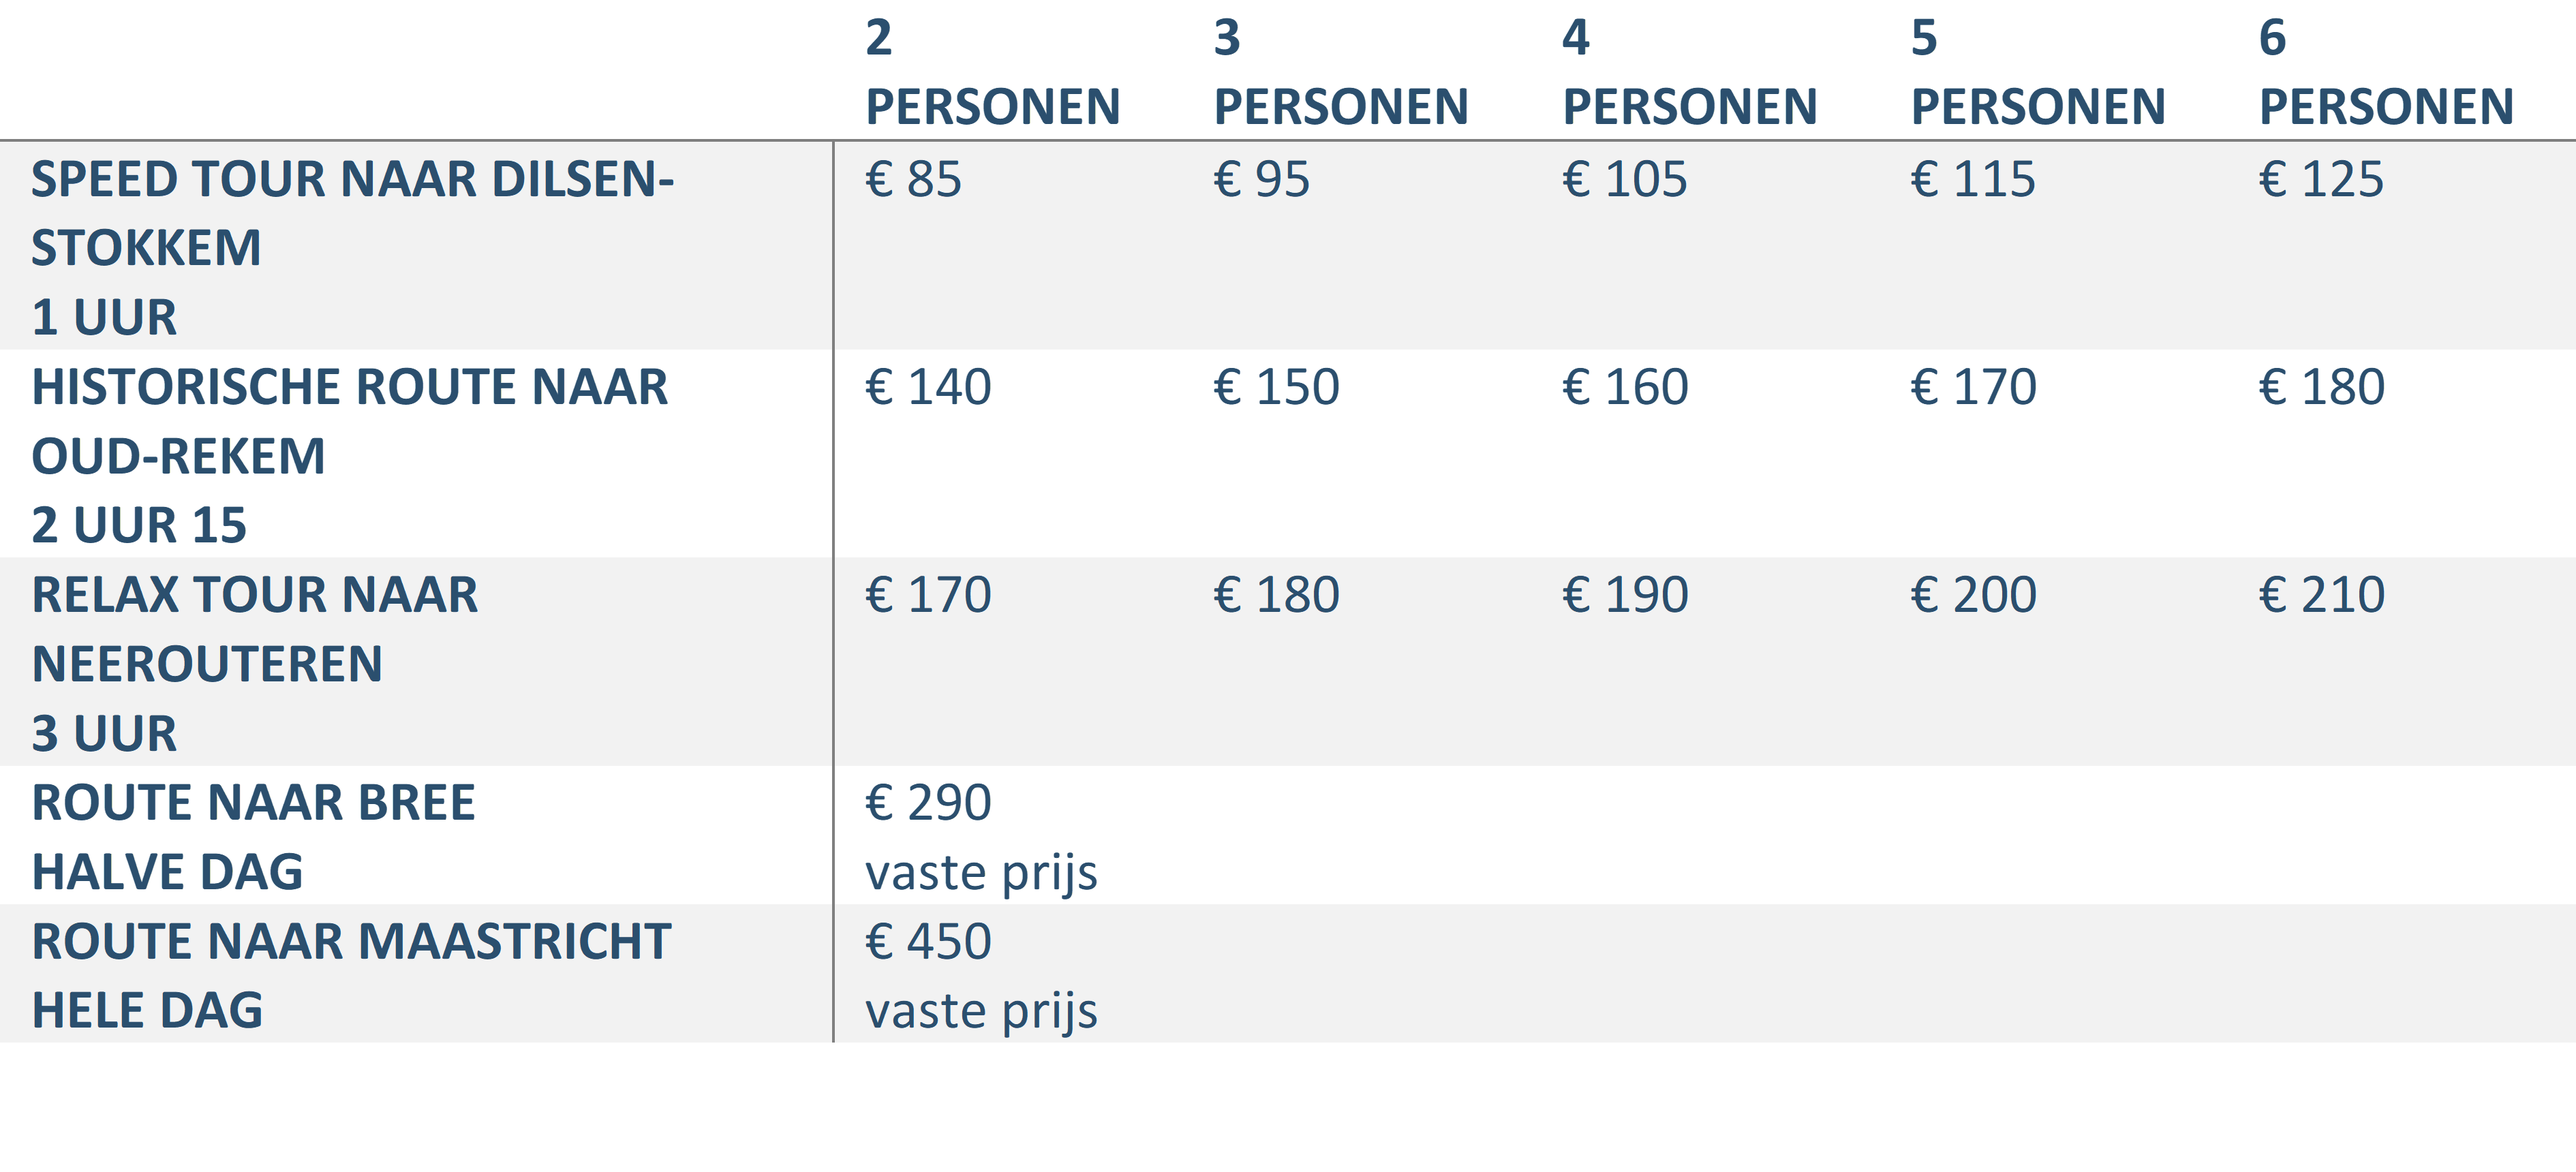
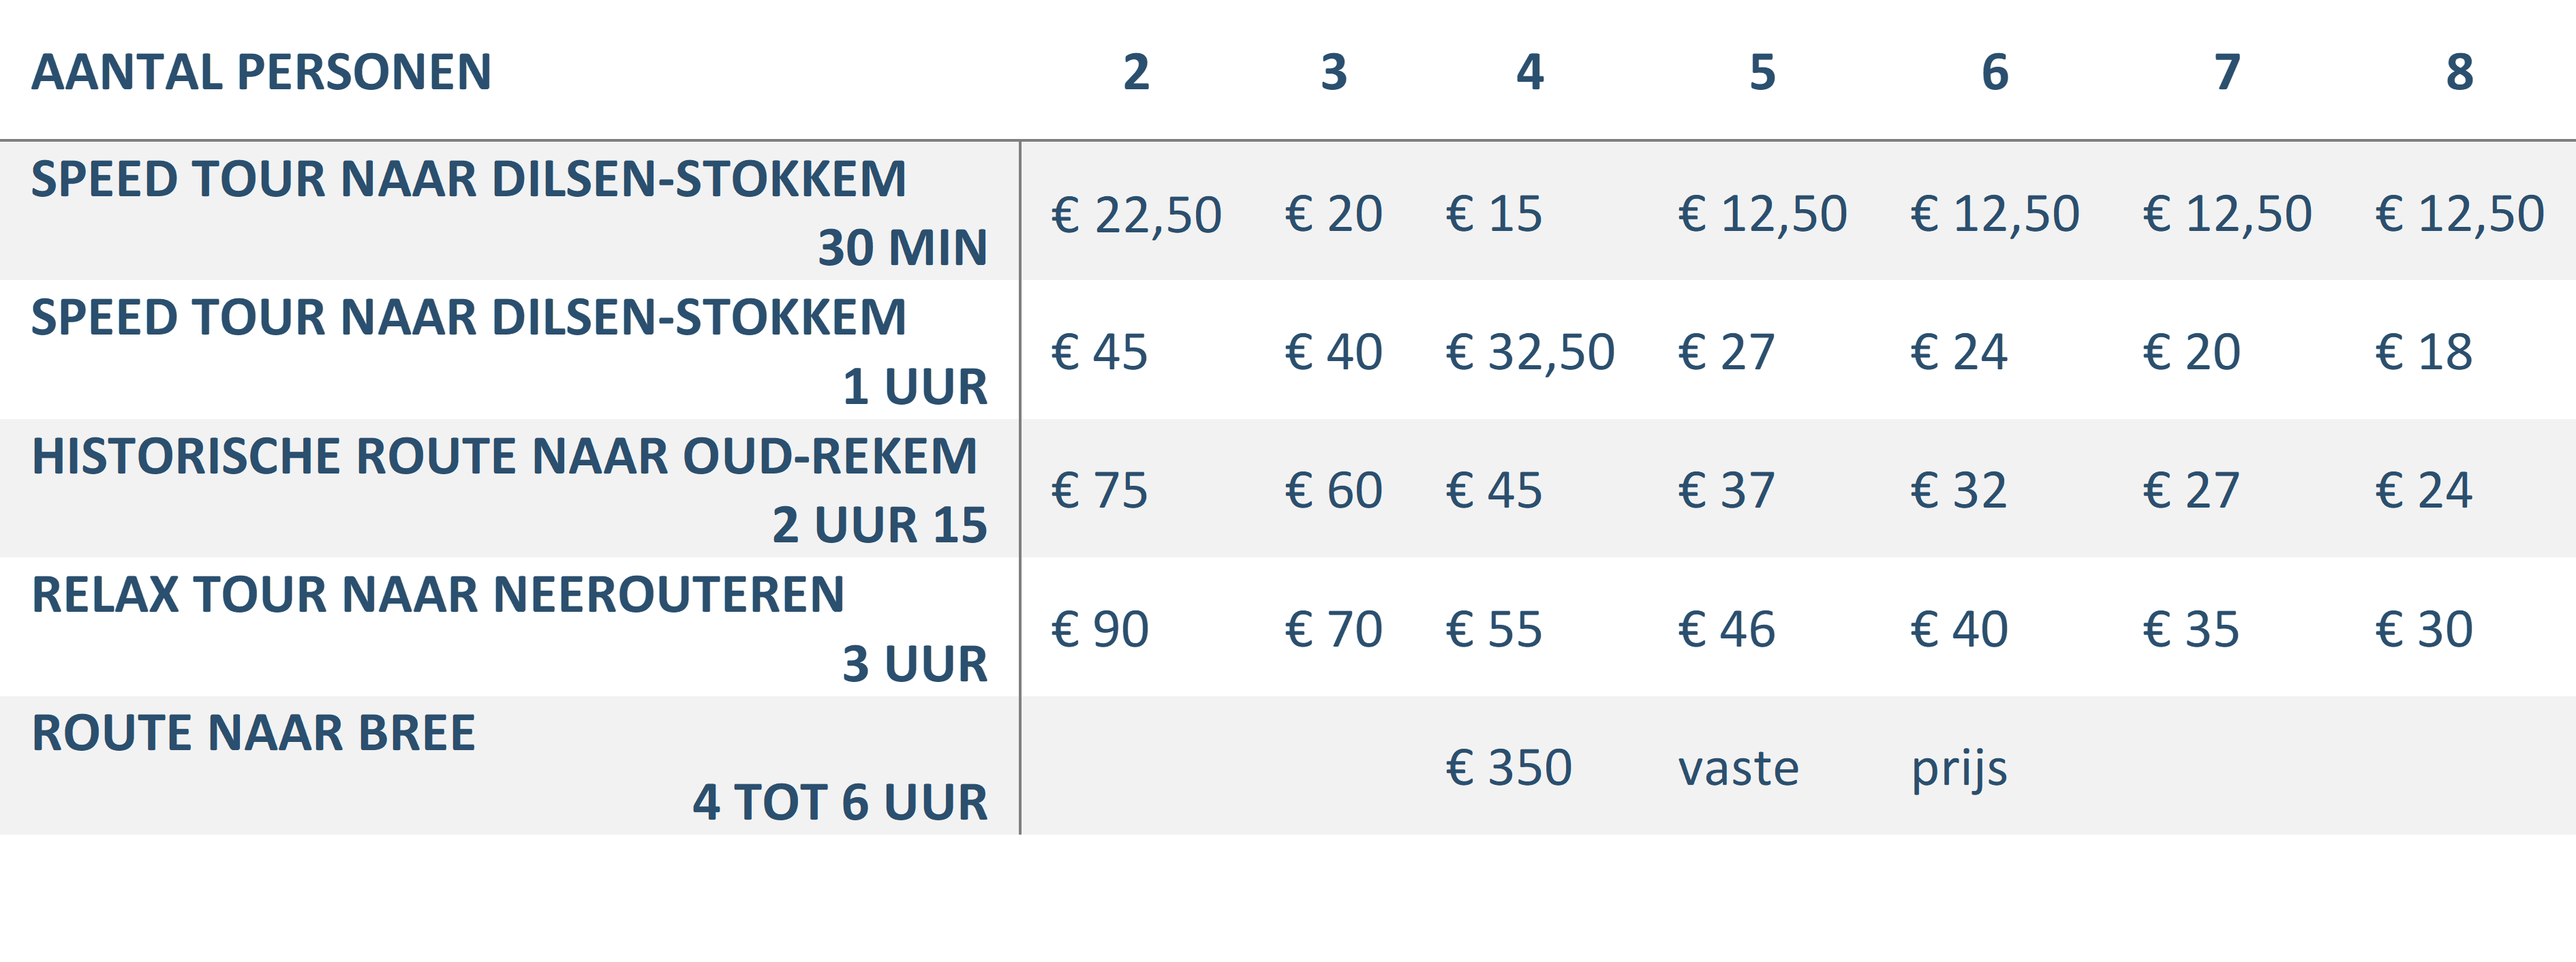
updated prices

diff --git a/site/routes.html b/site/routes.html
@@ -84,8 +84,8 @@
                     De route passeert een snelvaart zone zodat de kracht van de motor tot haar uiting komt en mede dankzij de wind in de haren zal het gevoel van vrijheid overheersen. We varen langs de historische scheepsvaart site waar het Brugwachtershuisje staat. Deze route is geschikt voor diegene die een adrenalinekick wil opzoeken en geen schrik heeft. Uiteraard primeert de veiligheid van de passagiers op elk moment.
                 </p>
                 <p class="text-right">
-                    Duur: +/- 50 min<br>
-                    Vanaf: € 85 (2 personen)
+                    Duur: 30 min of 1 uur<br>
+                    Vanaf: € 12,50 p.p. of € 18 p.p.
                 </p>
             </div>
             <div class="mb-4 col-md-6 order-md-1">
@@ -103,7 +103,7 @@
                 </p>
                 <p class="text-right">
                     Duur: +/- 2 uur 15 min<br>
-                    Vanaf: € 140 (2 personen)
+                    Vanaf: € 24 p.p.
                 </p>
             </div>
             <div class="mb-4 col-md-6 order-md-2">
@@ -124,7 +124,7 @@
                 </p>
                 <p class="text-right">
                     Duur: +/- 3 uur<br>
-                    Vanaf: € 170 (2 personen)
+                    Vanaf: € 30 p.p.
                 </p>
             </div>
             <div class="mb-4 col-md-6 order-md-1">
@@ -141,32 +141,12 @@
 
                 </p>
                 <p class="text-right">
-                    Duur: halve dag<br>
-                    Kostprijs: € 290
+                    Duur: 4 tot 6 uur<br>
+                    Kostprijs: € 350
                 </p>
             </div>
             <div class="mb-4 col-md-6 order-md-2">
                 <img class="rounded mx-auto d-block img-fluid" src="assets/images/bocholt%20jachthaven.jpg" alt="">
-            </div>
-        </div>
-
-        <hr/>
-
-        <div class="row">
-            <div class="mb-4 col-md-6 order-md-2">
-                <h3 class="text-center">Route Maastricht</h3>
-                <p class="text-justify">
-                    Tenslotte hebben we de shoproute naar Maastricht.
-                    We varen tot in het oude centrum van Maastricht waar u heerlijk vertoeven kan in de oude Romeinse nederzetting.
-                    De kapitein zet je midden in het centrum af waar u naar hartenlust verblijven kan en blijft op jullie wachten voor de terugreis.
-                </p>
-                <p class="text-right">
-                    Duur: volledige dag<br>
-                    Kostprijs: € 450
-                </p>
-            </div>
-            <div class="mb-4 col-md-6 order-md-1">
-                <img class="rounded mx-auto d-block img-fluid" src="assets/images/maastricht.jpg" alt="">
             </div>
         </div>
     </div>

diff --git a/site/prijzen.html b/site/prijzen.html
@@ -81,8 +81,8 @@
             <div class="col-12">
                 <p class="text-justify">
                     De routes hebben een min prijs voor 2 personen en zijn incl. btw, verzekering en kapitein.
-                    Voor elke extra volwassen persoon is het € 10 en per kind (<10 jaar) € 6 extra.
-                    De boot kan een maximum van 6 volwassenen vervoeren (exclusief kapitein).
+                    De prijzen staan aangeduid per persoon, behalve voor de route naar Bree.
+                    De boot kan een maximum van 8 volwassenen vervoeren (exclusief kapitein).
                 </p>
 
                 <hr/>
